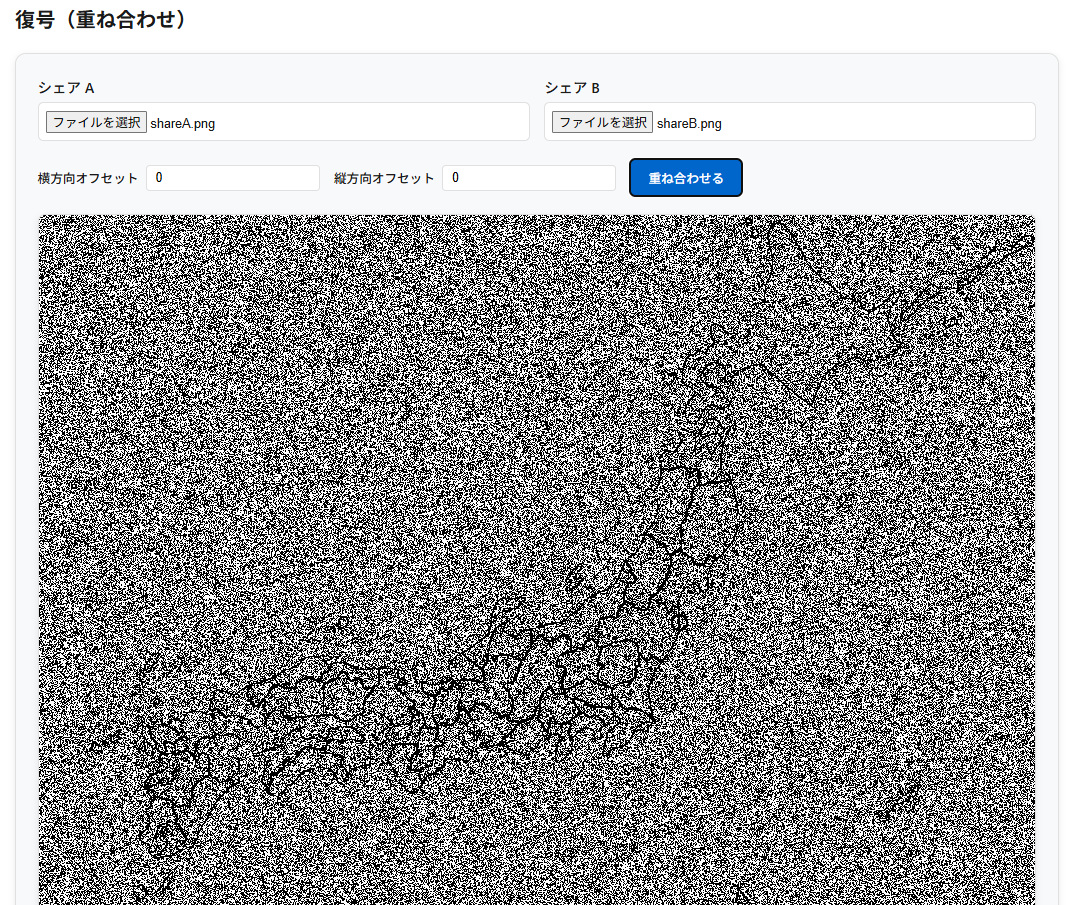
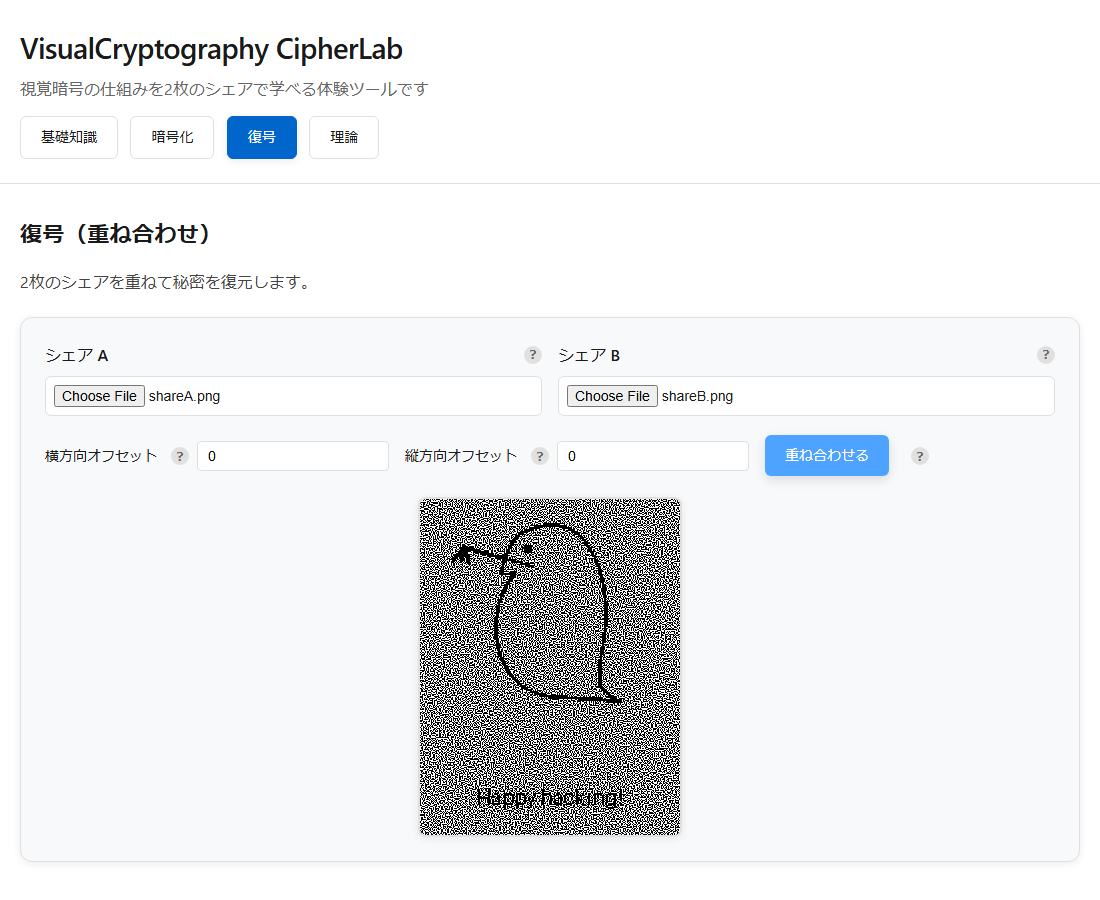
第1弾 段階4: 座学を2×2に・安全性の文言を正確に・README・CLAUDE・スクショ
- 座学の基本原理の図を、このツールの2×2・6パターンに合わせる
- 「完全にランダムに見えるため安全性が高い」を正確に:予測不能な乱数(crypto.getRandomValues)が前提で、予測できる乱数だと片方のシェアから復元できる、と説明
- READMEの絶対パス(/examples/)・助詞・ユーザ表記・ファイル名(.ipynb)・安全性の文言を修正、テスト節とvc-core/test/CIを構成に追加、ヘルプアイコンの表示方法を更新
- CLAUDE.mdをvc-core・CSPRNG・テストに更新。index.htmlのユーザ→ユーザー。スクリーンショット撮り直し(旧画像はbackups)

diff --git a/index.html b/index.html
@@ -146,23 +146,25 @@
             <p>通常の暗号は「暗号文＋鍵→復号アルゴリズム→平文」という流れを取りますが、視覚暗号では <strong>復号に計算処理を必要とせず、人間の目そのものが復号器</strong> となります。</p>
 
             <div class="principle-example">
-              <h5>基本的な仕組み</h5>
-              <p><strong>黒いピクセル</strong>の場合：</p>
+              <h5>基本的な仕組み（このツールは2×2に拡張）</h5>
+              <p>秘密画像の1ピクセルを、2×2の4サブピクセル（うち2つが黒）のブロックに置き換えます。黒2つの置き方は6通りあり、ピクセルごとに乱数で1つ選びます。</p>
+
+              <p><strong>白いピクセル</strong>の場合（両シェアに同じブロック）：</p>
               <div class="pixel-demo">
-                シートA: ■□<br>
-                シートB: □■<br>
-                重ね合わせ: ■■ → 黒く見える
+                シェアA: ■□ ／ □■<br>
+                シェアB: ■□ ／ □■<br>
+                重ね合わせ: ■□ ／ □■ → 黒2つ（灰色に見える）
               </div>
 
-              <p><strong>白いピクセル</strong>の場合：</p>
+              <p><strong>黒いピクセル</strong>の場合（シェアBは反転）：</p>
               <div class="pixel-demo">
-                シートA: ■□<br>
-                シートB: ■□<br>
-                重ね合わせ: ■□ → 灰色に見える
+                シェアA: ■□ ／ □■<br>
+                シェアB: □■ ／ ■□<br>
+                重ね合わせ: ■■ ／ ■■ → 黒4つ（黒く見える）
               </div>
             </div>
 
-            <p>👉 この「黒＝濃く見える」「白＝灰色に見える」という単純な仕組みが、視覚暗号の基本原理です。</p>
+            <p>👉 白は「黒2つ（灰）」、黒は「黒4つ（濃い黒）」になります。この濃さの差が、重ねたときに秘密として見えます。</p>
           </div>
         </div>
       </div>
@@ -176,7 +178,7 @@
           <div class="accordion-body">
             <ul>
               <li><strong>人間の目で復号</strong><br>PCやアルゴリズム不要。シェアを重ねるだけで秘密が復元できる。</li>
-              <li><strong>単独シェアは情報を持たない</strong><br>完全にランダムに見えるため、安全性が高い。</li>
+              <li><strong>単独シェアは情報を持たない</strong><br>各シェアのブロックは、白でも黒でも6パターンに一様に散らばる。<strong>予測不能な乱数</strong>（<code>crypto.getRandomValues</code>）でパターンを選ぶので、1枚だけでは元が白か黒か手がかりが残らない。逆に <code>Math.random</code> のように予測できる乱数だと、片方のシェアと乱数列から秘密を復元できてしまう。</li>
               <li><strong>ピクセル拡張</strong><br>秘密画像の1ピクセルを複数のサブピクセルに置き換えるため、シェアが大きくなる。</li>
               <li><strong>白黒画像向け</strong><br>基本は2値画像。グレースケールやカラー対応は拡張手法が必要。</li>
             </ul>
@@ -226,7 +228,7 @@
             <p>新聞・雑誌に片方のシェアを印刷、会員カードを重ねると秘密が見える。</p>
 
             <h4>QRコードとの融合</h4>
-            <p>複数シェアを重ねると有効なQRコードが読める仕組み。BEC防止やユーザ認証に応用。</p>
+            <p>複数シェアを重ねると有効なQRコードが読める仕組み。BEC防止やユーザー認証に応用。</p>
 
             <h4>教育用途</h4>
             <p>「複数人で秘密を守る」仕組みを直感的に体験でき、暗号教育に適する。</p>

diff --git a/CLAUDE.md b/CLAUDE.md
@@ -11,14 +11,15 @@ VisualCryptography CipherLab is a web-based educational tool for demonstrating V
 ### Core Implementation
 - **Frontend-only application** using vanilla JavaScript, HTML5 Canvas API, and CSS
 - **No build system or dependencies** - runs directly in browser as static files
-- **2×2 pixel expansion** visual cryptography algorithm implemented in `script.js`
+- **2×2 pixel expansion** visual cryptography algorithm. The logic lives in `js/vc-core.js` (DOM-free, on `globalThis.VCCore`); `script.js` only does the UI and canvas drawing
 - **Pattern-based encoding** using 6 predefined subpixel patterns for share generation
 
 ### Key Files
 - `index.html`: Single-page application with 4 tabs (基礎知識/Basics, 暗号化/Encrypt, 復号/Decode, 理論/Theory)
-- `script.js`: Core VSS implementation including:
+- `js/vc-core.js` (`VCCore`): pure logic — binarize, the 6 patterns, invert, `sharesForPixel`, `overlayBlock`, and `randomIndex`/`pickPattern` (unbiased selection via rejection sampling; the random source is injected, so tests are deterministic)
+- `script.js`: UI only, using `VCCore`:
   - Image binarization using luminance formula (0.299R + 0.587G + 0.114B)
-  - Share generation using random pattern selection from 6 patterns
+  - Share generation picking patterns with `crypto.getRandomValues` (never `Math.random` — a predictable PRNG would let one share plus the sequence recover the secret)
   - Canvas-based overlay with offset adjustment using 'darken' composite mode
   - Accordion UI for theory tab
 - `style.css`: Styling with CSS variables
@@ -52,10 +53,13 @@ The visual cryptography implementation uses:
 - **White pixels**: Both shares get the same pattern → overlay shows 50% gray (half black, half white)
 - **Overlay operation**: JavaScript uses Canvas 'darken' composite; Python uses logical OR
 
-## Testing Approach
+## Testing
 
-No automated tests. Manual testing:
-1. Upload test images via 暗号化 (Encrypt) tab
-2. Download generated shares
-3. Load shares in 復号 (Decode) tab to verify reconstruction
+```bash
+node --test
+```
+
+- Node 22+, no dependencies (`node:test`). Runs in GitHub Actions on push and pull request. `test/load.js` loads the plain scripts with `vm.runInThisContext`
+- `test/core.test.js` pins the 6 patterns, binarization (including threshold 0), share/overlay math (white→2 black, black→4 black), and the unbiased random selection. The random source is injected, so expected values are deterministic
+- Manual check for the UI: generate shares in the Encrypt tab, download them, load them in the Decode tab and confirm the secret appears when overlaid
 4. Adjust offset parameters to test alignment
